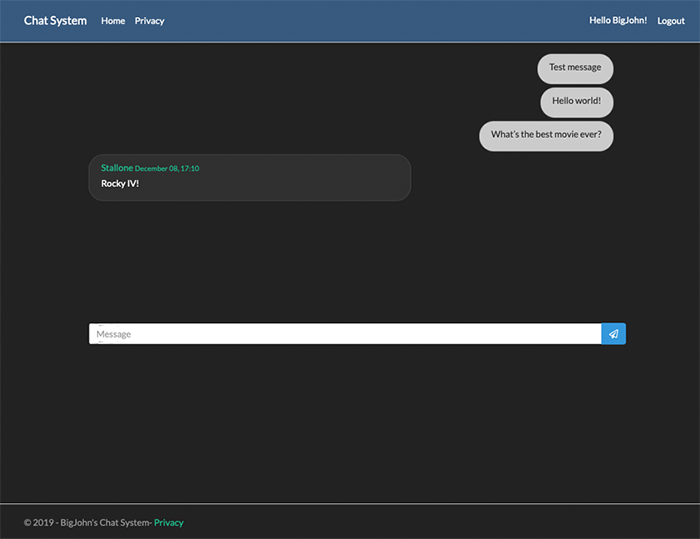
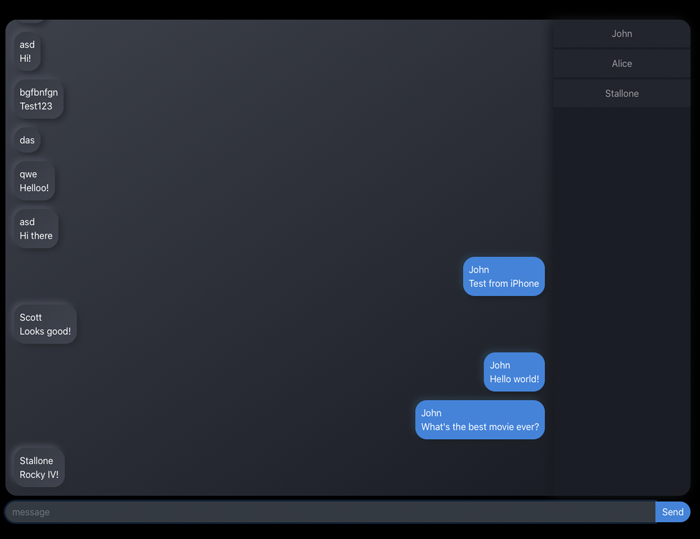
Added gallery to Chat system item

diff --git a/src/components/portfolioItem/individualContent/chatSystem.component.tsx b/src/components/portfolioItem/individualContent/chatSystem.component.tsx
@@ -1,11 +1,14 @@
 import React from "react";
 
+import GalleryView from "../galleryView.component";
 import ScreenshotChat from "../../../Assets/Images_Neu/Chat.png";
+import ScreenshotChat2 from "../../../Assets/Images_Neu/Chat2.png";
 
 export default function Chat() {
   return (
-    <div className="screenshotsContainer">
+    <GalleryView>
       <img src={ScreenshotChat} className="screenshotContentImage" alt="screenshot" />
-    </div>
+      <img src={ScreenshotChat2} className="screenshotContentImage" alt="screenshot" />
+    </GalleryView>
   );
 }

diff --git a/src/pages/homepage.component.tsx b/src/pages/homepage.component.tsx
@@ -52,7 +52,7 @@ function HomePage(props: any) {
             url: "https://github.com/Johnhersh/chat_client",
             title: "Github frontend",
           }}
-          icons={[reactNativeSVG, dotnetSVG, postgresSVG, bootStrapSVG]}
+          icons={[reactSVG, postgresSVG, bootStrapSVG, sassSVG]}
         >
           <Chat />
         </PortfolioItem>
